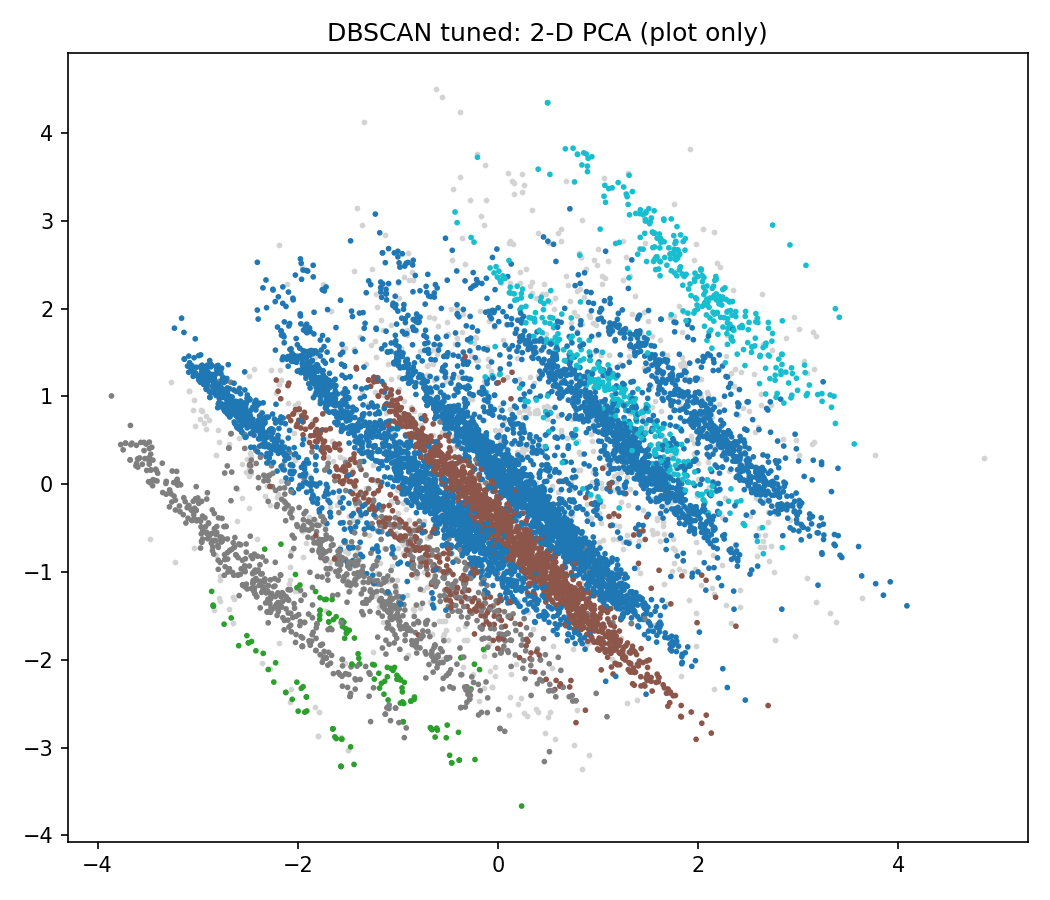
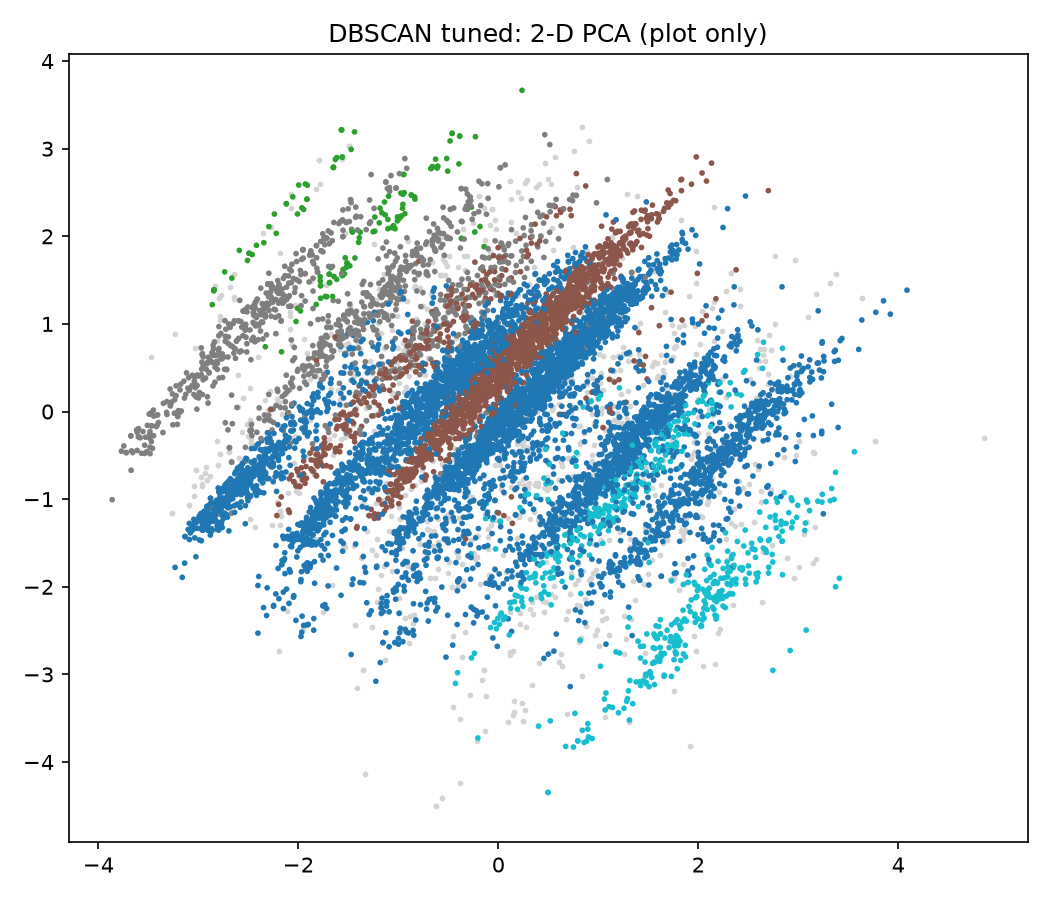
Remove old GMM main, widen DBSCAN eps grid to 2.5, README note

diff --git a/clustering/gmm/baseline/run.py b/clustering/gmm/baseline/run.py
@@ -348,54 +348,6 @@ def base_arg_parser(description):
     return ap
 
 
-# ---------------------------------------------------------------- main
-def main():
-    args = base_arg_parser("Untuned baseline GMM (scikit-learn defaults, k=3).").parse_args()
-    art_dir, fig_dir, tab_dir = make_dirs(args.artifacts_dir, args.figures_dir, args.tables_dir)
-
-    X_df, X, raw_df, prof_df = load_data(args.features, args.raw, args.profile_cols)
-    sil_idx = silhouette_sample_idx(len(X))
-    print(f"Untuned GMM {BASELINE_PARAMS} on {X.shape[0]} bookings x {X.shape[1]} features")
-
-    pipe = Pipeline([("reduce", "passthrough"), ("gmm", GaussianMixture(**BASELINE_PARAMS))])
-    t0 = time.perf_counter()
-    pipe.fit(X)
-    fit_time = time.perf_counter() - t0
-
-    metrics, labels, probs = summarize_model(pipe, X, sil_idx, fit_time, "untuned_baseline")
-    gmm = pipe.named_steps["gmm"]
-    n_zero, data_eigs = data_zero_eigenvalues(X)
-    cov_diag = covariance_diagnostics(gmm)
-    metrics["data_zero_eigenvalues"] = n_zero
-    metrics["max_condition_number"] = float(cov_diag["condition_number"].max())
-    metrics["min_eig_at_floor_per_component"] = int(cov_diag[FLOOR_COL].min())
-    profiles = build_cluster_profiles(raw_df, prof_df, labels, probs)
-
-    joblib.dump(pipe, art_dir / "gmm_untuned_model.joblib")
-    (art_dir / "gmm_untuned_metadata.json").write_text(json.dumps(
-        {"params": BASELINE_PARAMS, "feature_names": list(X_df.columns), "metrics": metrics}, indent=2), encoding="utf-8")
-    pd.DataFrame([metrics]).to_csv(tab_dir / "clustering_gmm_untuned_metrics.csv", index=False)
-    profiles.to_csv(tab_dir / "clustering_gmm_untuned_profiles.csv", index=False)
-    cov_diag.to_csv(tab_dir / "clustering_gmm_untuned_covariance.csv", index=False)
-    np.save(tab_dir / "labels.npy", labels)
-
-    tag = f"GMM untuned baseline (raw {X.shape[1]}-D, k=3, full, reg_covar=1e-6)"
-    plot_pca_2d(X, labels, pipe, fig_dir / "clustering_gmm_untuned_pca_2d.png", tag)
-    plot_cluster_profiles(profiles, fig_dir / "clustering_gmm_untuned_profiles.png", tag + ": cluster profiles")
-    plot_cov_eigenvalues(gmm, data_eigs, fig_dir / "clustering_gmm_untuned_cov_eigenvalues.png",
-                         f"{tag}: covariance eigenvalues\nThe data itself has {n_zero} zero eigenvalues "
-                         f"(each one-hot group sums to a constant), so full covariances hit the reg_covar floor")
-
-    print("\n========== UNTUNED BASELINE GMM ==========")
-    for k, v in metrics.items():
-        print(f"  {k:32s}: {v}")
-    print("\nCovariance diagnostics:")
-    print(cov_diag.to_string(index=False))
-    print("\nCluster profiles:")
-    print(profiles[["Cluster", "Count", "Share_Pct", "LeadTime_Mean", "TotalNights_Mean", "HasChildren_Pct",
-                    "Top_MarketSegment", "PostHoc_ADR_Mean", "PostHoc_CancelRate_Pct"]].to_string(index=False))
-
-
 def main_12d():
     """GMM baseline on the 12-D frequency matrix (scikit-learn defaults, k=3). Same ruler as every other model."""
     import sys as _s
@@ -416,3 +368,4 @@ def main_12d():
 
 if __name__ == "__main__":
     main_12d()
+

diff --git a/clustering/dbscan/tuned/run.py b/clustering/dbscan/tuned/run.py
@@ -12,7 +12,7 @@ from sklearn.neighbors import NearestNeighbors
 import common as C
 X, SEED = C.X, C.SEED
 OUT = HERE / "outputs"; OUT.mkdir(exist_ok=True)
-EPS_GRID = [0.75, 1.0, 1.25, 1.5, 1.75, 2.0]
+EPS_GRID = [0.75, 1.0, 1.25, 1.5, 1.75, 2.0, 2.25, 2.5]
 MS_GRID = [15, 25, 50, 100, 150]
 
 def ev(eps, ms):
@@ -50,5 +50,6 @@ plt.legend(); plt.title("DBSCAN tuned: k-distance"); plt.tight_layout(); plt.sav
 p = PCA(n_components=2, random_state=SEED).fit_transform(X[C.SIL_IDX]); l = lab[C.SIL_IDX]; n = l == -1
 plt.figure(figsize=(7, 6)); plt.scatter(p[n, 0], p[n, 1], s=3, c="lightgray"); plt.scatter(p[~n, 0], p[~n, 1], s=3, c=l[~n] % 10, cmap="tab10")
 plt.title("DBSCAN tuned: 2-D PCA (plot only)"); plt.tight_layout(); plt.savefig(OUT / "pca.png", dpi=150); plt.close()
+
 
 

diff --git a/clustering/README.md b/clustering/README.md
@@ -34,3 +34,5 @@ These thresholds were chosen by the team, not taken from a reference.
 
 Each outputs/ folder: results.txt, labels.npy (-1 = DBSCAN noise), cluster_profiles.csv, plots.
 Trained model files (.joblib) are ignored by git and must not be in the submission ZIP.
+
+Note: the K-Means tuned search applies the ARI < 0.9 check only; its chosen model also has NMI 0.40 (< 0.5).
